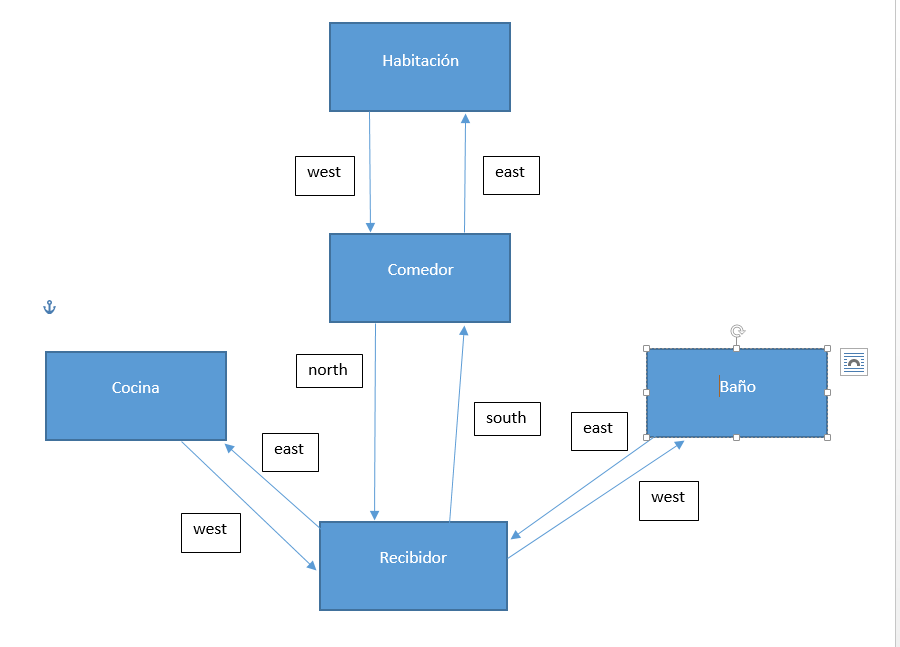
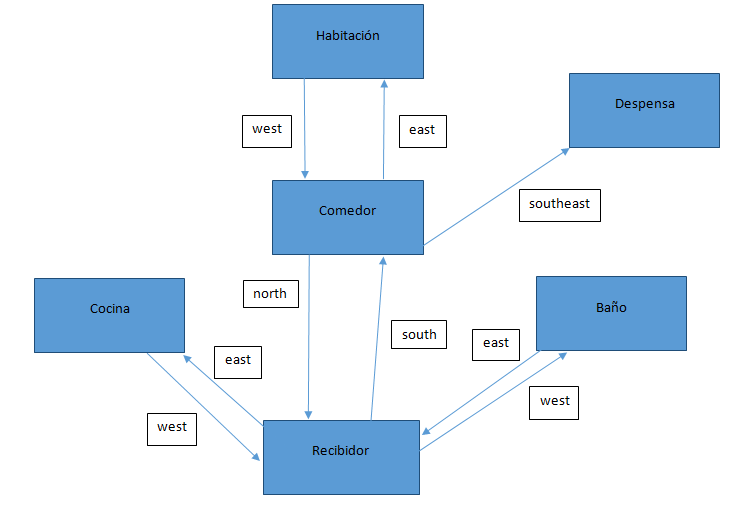
puesta una nueva direccion sureste al llegar a la habitacion del comedor

diff --git a/Room.java b/Room.java
@@ -19,7 +19,7 @@ public class Room
     public Room southExit;
     public Room eastExit;
     public Room westExit;
-
+    public Room southeastExit;
     /**
      * Create a room described "description". Initially, it has
      * no exits. "description" is something like "a kitchen" or
@@ -39,7 +39,7 @@ public class Room
      * @param south The south exit.
      * @param west The west exit.
      */
-    public void setExits(Room north, Room east, Room south, Room west) 
+    public void setExits(Room north, Room east, Room south, Room west, Room southeast) 
     {
         if(north != null)
             northExit = north;
@@ -49,6 +49,8 @@ public class Room
             southExit = south;
         if(west != null)
             westExit = west;
+        if(southeast != null)
+            southeastExit = southeast;
     }
 
     /**
